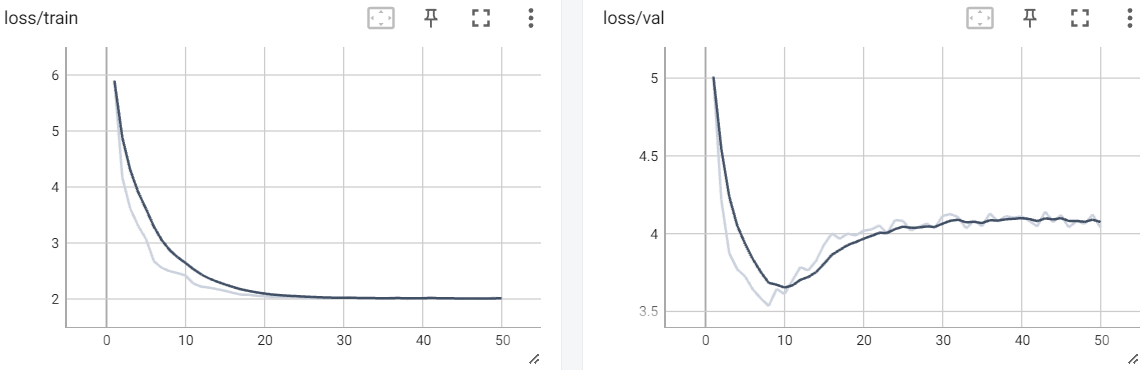
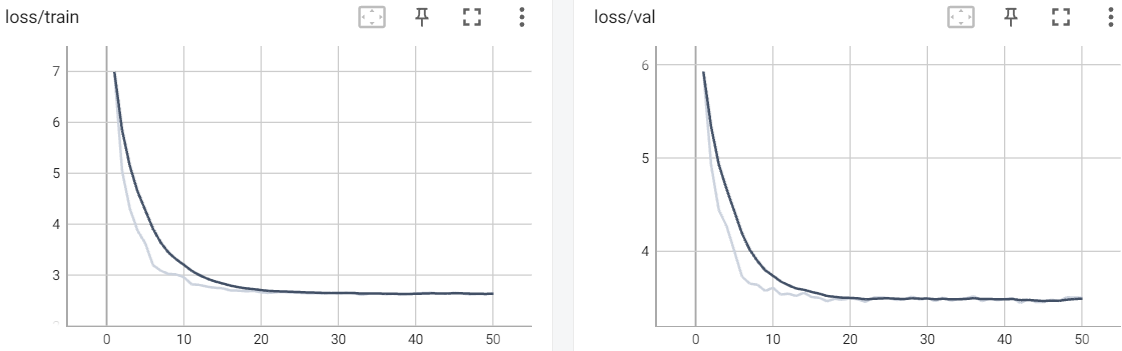
fix: change rcnn loss grahic, delete unused programs

diff --git a/bab/4-pengujian-analisis.tex b/bab/4-pengujian-analisis.tex
@@ -48,14 +48,20 @@ This was based on a system requirement that only need pose estimation for one ro
 
 This section shows training graphics, evaluation metrics about three models, and testing we perform such as visualizing detection results and inference time.
 Figure \ref{fig:nimbro-training-graphics} and \ref{fig:rcnn-training-graphics} show graphics for training loss (on the left) and validation loss (on the right).
-Training loss and validation loss of NimbRo's model decreased from 0.02 to 0.0006 and 0.0065 to 0.002 respectively. From Figure \ref{fig:rcnn-training-graphics},
-we also can know that training loss and validation loss of Keypoint RCNN decreased from 6 to 2 and 5 to 4 respectively and they were stagnant until the end of the training process.
+The training loss graphic shows the trend of the loss value over epochs or iterations during training. It represents how well the model is fitting the training data.
+On the other hand, the validation loss graphic shows the trend of the loss value over epochs or iterations during validation.  It serves as an estimate of how well the model generalizes to unseen data.
 \begin{figure}[ht]
   \centering
   \includegraphics[scale=0.65]{gambar/loss-nimbro.png}
   \caption{Nimbro Training Graphics.}
   \label{fig:nimbro-training-graphics}
 \end{figure}
+Training loss and validation loss of NimbRo's model decreased from 0.02 to 0.0006 and 0.0065 to 0.002 respectively. From Figure \ref{fig:rcnn-training-graphics},
+we also can know that training loss and validation loss of Keypoint RCNN decreased from 6.991 to 2.634 and 5.926 to 3.439 respectively. Initially, the training loss is high as the model's parameters are randomly initialized,
+  and the model has not yet learned to make accurate predictions. As the training progresses, the loss generally decreases, indicating that the model is learning and improving its performance.
+The training loss steadily decreases and eventually stabilizes, this indicates the model has converged and training does not need to be continued.
+Like training loss, initially, validation loss is relatively high since the model has not been exposed to the validation data. As the model learns from the training data, the validation loss should decrease,
+  indicating improved generalization performance. The validation loss steadily decreases and stabilizes in the end.
 \begin{figure}[ht]
   \centering
   \includegraphics[scale=0.65]{gambar/loss-rcnn.png}
@@ -108,7 +114,8 @@ We decide to store the images first and do pose comparisons afterward. Since we 
   \hline
 \end{longtable}
 
-\def\arraystretch{1.5}
+\newpage
+\def\arraystretch{1}
 \begin{longtable}{|c|c|c|}
   \caption{Inference Time Model Humanoid Robot.}
   \label{tb:inferencerobot}\\
@@ -133,6 +140,7 @@ Based on \parencite{bazarevsky2020} that compares three different models: BlazeP
 Note that, in this study, we use BlazePose Full because by default the value of \emph{model complexity} argument is 1 in the \emph{mediapipe.solutions.pose.Pose} API class. Mediapipe provides 3 BlazePose models: BlazePose Lite, BlazePose Full, and BlazePose Heavy. Pose landmark accuracy as well as inference latency generally go up with the model complexity.
 Table \ref{tb:yoloandmediapipecomparison} shows the comparison between YOLO-pose and MediaPipe Pose and based on our needs to just detect one person, MediaPipe should be the best and also reliable choice.  
 
+\def\arraystretch{1.5}
 \begin{longtable}{|L{3cm}|L{5cm}|L{5cm}|}
   \caption{YOLO-pose and MediaPipe Pose Comparison.}
   \label{tb:yoloandmediapipecomparison}\\

diff --git a/bab/3-desain-implementasi.tex b/bab/3-desain-implementasi.tex
@@ -352,7 +352,7 @@ Actually, this format is almost the same as the YOLO format (each image has its 
 Where the format of the bounding-box is the top left point and the bottom right point. We can obtain bottom right point by adding bounding box width to x coordinate and its height to y coordinate.
 
 The training process starts with loading our dataset and specifying the augmentation technique we are using. We use \emph{albumentations} library from Python for augmenting our dataset.
-At first, we apply random brightness, contrast, and rotation. Nevertheless, the model seems to become underfitting, so we try just random brightness and contrast. Fortunately, the result seems pretty good after that.
+We apply random brightness, contrast, and rotation.
 Before we declare RCNN model using torchvision library, we need anchors that will be an input argument. 
 By default, the \emph{AnchorGenerator} class in PyTorch has 3 different sizes (128, 256, 512) and 3 different aspect ratios (0.5, 1.0, 2.0).
 We have extended those parameters, \verb|sizes| to (32, 64, 128, 256, 512) which means that anchor boxes with different base sizes will be generated. These base sizes represent the approximate dimensions (in pixels) of the objects that the algorithm will try to detect.
@@ -448,12 +448,11 @@ Next step is dividing each coordinate by the length of the vector. This step ens
 
 \begin{figure}[ht]
   \centering
-  \includegraphics[scale=0.8]{gambar/transform-to-unit-vector.png}
+  \includegraphics[scale=0.7]{gambar/transform-to-unit-vector.png}
   \caption{Transforming into Unit Vector.}
   \label{fig:transforming-into-unit-vector}
 \end{figure}
 
-\newpage
 \section{Comparing Human Keypoints and Robot Keypoints}
 \label{sec:comparing-keypoints}
 
